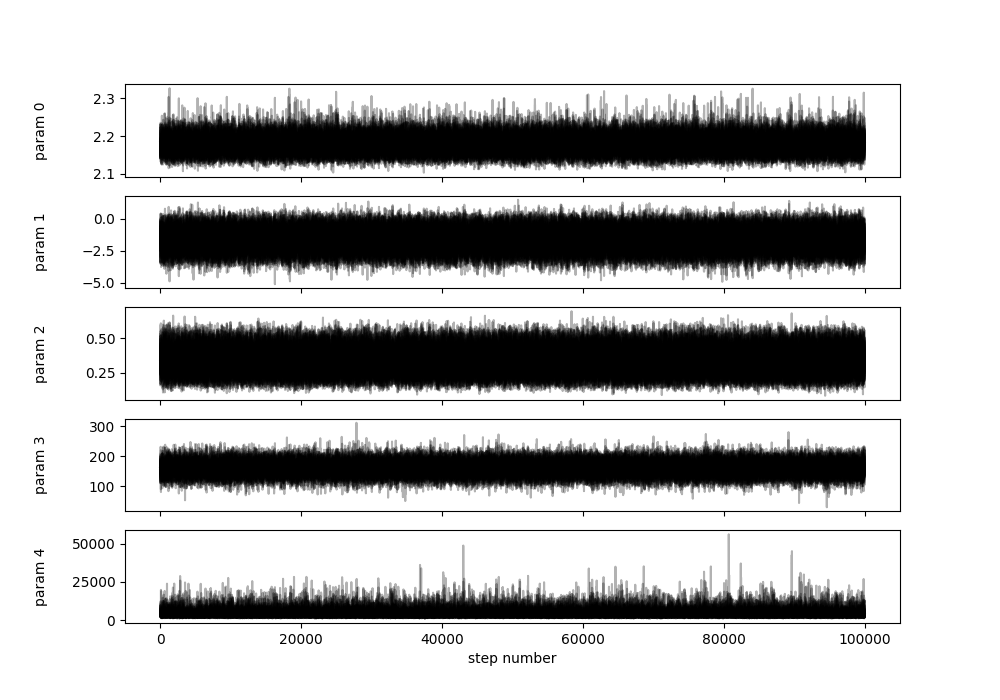
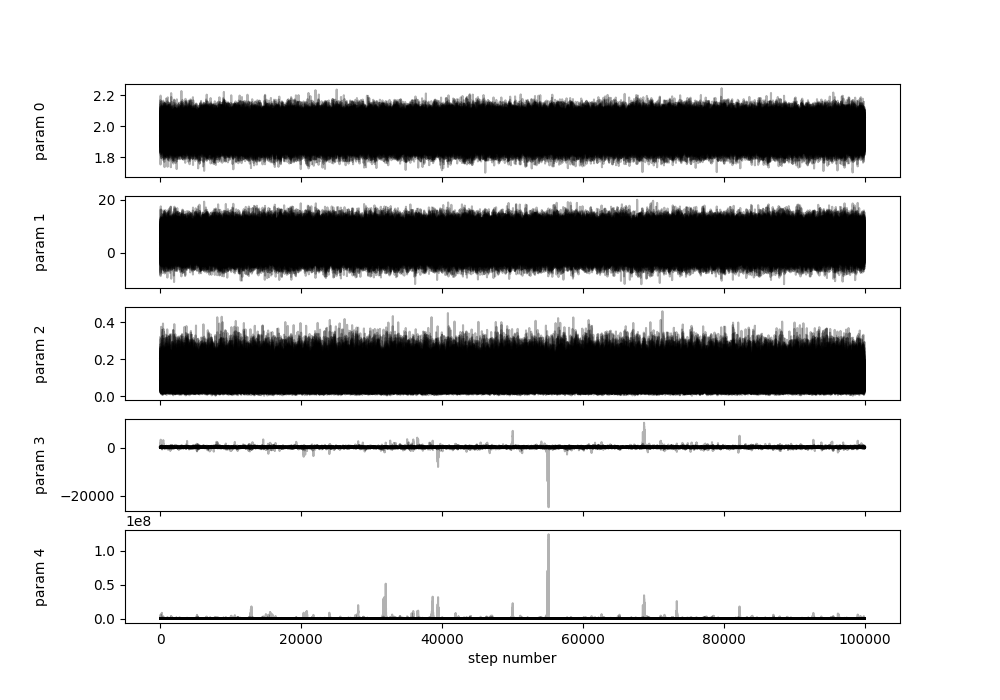
Decently working for linear plots with decent accuracy. However, need to see how it performs for other kinds of deviations. Still it feels like it is pretty good at picking out linear function, regardless of what the other function is.

diff --git a/summa.py b/summa.py
@@ -4,9 +4,13 @@ import corner
 import time
 import sys
 import emcee
+import datetime
+
+# Define the current time at the start of the program
+current_time = datetime.datetime.now().strftime("%Y%m%d_%H%M%S")
 
 flag = 0
-sig = 2
+sig = 20
 def function(x, params):
     return np.polyval(params, x)
 
@@ -34,9 +38,13 @@ def create_data(num_good_points=100, num_bad_points=10):
     plt.legend()
     plt.grid()
     # plt.show()
+    plt.savefig(f"summa_real_data_plot_{current_time}.png") 
     plt.close()
 
-    return np.sort(np.concatenate((x_good, x_bad))), np.concatenate((y_good, y_bad))
+    x_combined = np.concatenate((x_good, x_bad))
+    y_combined = np.concatenate((y_good, y_bad))
+    sorted_indices = np.argsort(x_combined)
+    return np.sort(x_combined), y_combined[sorted_indices]
 
 def logprior(params, NUM=2):
     func_params = params[:NUM]
@@ -44,7 +52,7 @@ def logprior(params, NUM=2):
 
     if Pb < 0 or Pb > 1:
         return -np.inf
-    if Vb < 0:
+    if Vb <= 0:
         return -np.inf
 
     return - np.log(1 + Pb) - np.log(1 + Vb)
@@ -54,8 +62,12 @@ def loglikelihood(params, x, y, NUM=2):
     Pb, Yb, Vb = params[NUM:]
 
 
-    logforeground_model = np.log((1 / np.sqrt(2 * np.pi * sig**2))) + (-0.5 * ((y - function(x, func_params)) / sig)**2)
-    logbackground_model = np.log((1 / np.sqrt(2 * np.pi * (Vb + sig**2)))) + (-0.5 * ((y - Yb)**2 / (Vb + sig**2)))
+    epsilon = 1e-10  # Small value to prevent division by zero
+    safe_sig2 = sig**2 + epsilon
+    safe_Vb = Vb + epsilon
+
+    logforeground_model = np.log((1 / np.sqrt(2 * np.pi * safe_sig2))) + (-0.5 * np.clip(((y - function(x, func_params)) / sig)**2, -1e10, 1e10))
+    logbackground_model = np.log((1 / np.sqrt(2 * np.pi * (safe_Vb + safe_sig2)))) + (-0.5 * np.clip(((y - Yb)**2 / (safe_Vb + safe_sig2)), -1e10, 1e10))
 
     a = np.log(1 - Pb) + logforeground_model
     b = np.log(Pb) + logbackground_model
@@ -209,12 +221,12 @@ def plot_corner(samples_2d, title):
         levels=(0.68, 0.95),  # Confidence levels for contours
         color="black",  # Color of the plots
     )
-    plt.savefig("corner_plot_1.png")  # Save the corner plot as a PNG file
+    plt.savefig(f"corner_plot_1_{current_time}.png")  # Save the corner plot as a PNG file with the current time
     plt.show()
 
     fig = plt.figure(figsize=(12, 8), dpi=100)
     corner.corner(samples_2d, fig=fig, labels=title, show_titles=True, quantiles=[0.16, 0.5, 0.84])
-    plt.savefig("corner_plot_2.png")  # Save the corner plot as a PNG file
+    plt.savefig(f"corner_plot_2_{current_time}.png")  # Save the corner plot as a PNG file with the current time
     plt.show()
 
 def mcmc_1_main(data, num_walkers=50, num_samples=10000, num_burnin=1000, num_thin=10, NUM=2):
@@ -225,7 +237,7 @@ def mcmc_1_main(data, num_walkers=50, num_samples=10000, num_burnin=1000, num_th
 
     # param_ranges = [(-5, 5), (-10, 10), (0, 1), (-20, 20), (10, 10)]
     # param_ranges = [(1.95, 2.05), (-0.1, 0.1), (0, 1), (-10, 10), (0, 5)]
-    param_ranges = [(1, 3), (-2, 2), (0, 1), (-10, 10), (0, 5)]
+    param_ranges = [(1, 3), (-2, 2), (0.1, 0.9), (-10, 10), (1, 5)]
 
     for i in range(num_walkers):
         initial_params = np.array([np.random.uniform(low, high) for low, high in param_ranges])
@@ -319,7 +331,7 @@ def mcmc_2_main(data, nwalkers=50, nprod=1000, nburn=1000, NUM=2):
     ndim = NUM + 3  # Number of parameters (2 for function params, 3 for Pb, Yb, Vb)
     nwalkers = nwalkers
 
-    param_ranges = [(1, 3), (-2, 2), (0, 1), (-10, 10), (0, 5)]
+    param_ranges = [(1, 3), (-2, 2), (0.1, 0.9), (-10, 10), (1, 5)]
 
     p0 = np.array([np.random.uniform(low, high, size=nwalkers) for low, high in param_ranges]).T
 
@@ -356,8 +368,8 @@ def mcmc_2_main(data, nwalkers=50, nprod=1000, nburn=1000, NUM=2):
 
     fig = plt.figure(figsize=(12, 8), dpi=100)
     corner.corner(samples, labels=["m", "c", "Pb", "Yb", "Vb"], fig=fig, show_titles=True, quantiles=[0.16, 0.5, 0.84])
+    plt.savefig(f"summa_corner_plot_3_{current_time}.png")  # Save the corner plot as a PNG file with the current time
     plt.show()
-    plt.savefig("summa_corner_plot_3.png")  # Save the corner plot as a PNG file
     plt.close()
 
 
@@ -370,8 +382,21 @@ def mcmc_2_main(data, nwalkers=50, nprod=1000, nburn=1000, NUM=2):
         ax.set_ylabel(f"param {i}")
         ax.yaxis.set_label_coords(-0.1, 0.5)
     plt.xlabel("step number")
-    plt.savefig("summa_chain_plot_3.png")  # Save the chain plot as a PNG file
+    plt.savefig(f"summa_chain_plot_3_{current_time}.png")  # Save the chain plot as a PNG file with the current time
     plt.close()
+
+    # Print acceptance rate
+    acceptance_rate = np.mean(sampler.acceptance_fraction)
+    print(f"Acceptance rate: {acceptance_rate:.4f}")
+
+    # Compute and print autocorrelation time
+    try:
+        tau = sampler.get_autocorr_time()
+        print("Autocorrelation time for each parameter:")
+        for i, t in enumerate(tau):
+            print(f"  Parameter {i}: {t:.2f}")
+    except emcee.autocorr.AutocorrError:
+        print("Warning: Autocorrelation time could not be reliably estimated.")
 
     return [stats["median"] for param, stats in results.items()]
 
@@ -430,11 +455,16 @@ def find_bad_data(data, param, NUM=2):
 
 # data = create_data(15, 3)
 # data = create_data(20, 5)
-# data = create_data(100, 1)
-data = create_data()
+data = create_data(100, 10)
+# data = create_data(10, 10)
+# print("data points are")
+# for i in range(len(data[0])):
+#     print(f"({data[0][i]}, {data[1][i]})")
+
+# sys.exit(0)
 
 # mcmc_main(data, num_walkers=3, num_samples=10, num_burnin=2, num_thin=2, NUM=2)
-n_walkers = 20
+n_walkers = 50
 n_prod = 100000
 n_burn = 1000
 n_thin = 50
@@ -448,6 +478,8 @@ print(f"\n\nres_1 = {res_1}\nres_2 = {res_2}\n\n")
 x_arr = np.linspace(0, 100, 100)
 y_arr = function(x_arr, res_1[:2])
 
+y_bad_func_1 = function(x_arr, res_2[3:5])
+
 prob_bad_points_1 = find_bad_data(data, res_1, NUM=2)
 
 print("prob_bad_points = ", prob_bad_points_1)
@@ -458,35 +490,80 @@ print("mask = ", mask)
 # print("sigys = ", sigys)
 # print("sigy = ", sigy)
 
-plt.scatter(data[0][~mask], data[1][~mask], c='red', label='Data Points', edgecolor='black', s=14)
-plt.scatter(data[0][mask], data[1][mask], facecolors='none', edgecolors='red', s=8, label='Bad Data Points', alpha=0.5)
-plt.errorbar(data[0], data[1], yerr=sig, fmt='o', alpha=0.6, capsize=0.4)
+# plt.errorbar(A, B, yerr=sig, fmt='o', ms=10, capsize=4, zorder=1)
+# plt.scatter(A[mask], B[mask], facecolors='red', edgecolors='red', s=50, label='Bad Data Points', zorder=2)
+
+plt.errorbar(data[0], data[1], yerr=sig, fmt='o', ms=10, capsize=4, zorder=1)
+plt.scatter(data[0][mask], data[1][mask], c='red', label='Bad Data Points', alpha=0.7, edgecolor='black', s=50, zorder=2)
+
+# plt.scatter(data[0][~mask], data[1][~mask], c='red', label='Data Points', edgecolor='black', s=14)
+# plt.scatter(data[0][mask], data[1][mask], facecolors='none', edgecolors='red', s=8, label='Bad Data Points', alpha=0.5)
+# plt.errorbar(data[0], data[1], yerr=sig, fmt='o', alpha=0.6, capsize=0.4)
 plt.xlabel('x')
 plt.ylabel('y')
 plt.title('Fitting for x with Bad data in dataset')
 plt.plot(x_arr, y_arr, color='blue', label='Good Function')
+plt.plot(x_arr, y_bad_func_1, color='red', label='Bad Function')
+plt.xlim(-5, 105)
+plt.ylim(-10, 410)
 plt.legend()
 plt.grid()
-plt.savefig("summa_plot_1.png")  # Save the plot as a PNG file
+plt.savefig(f"summa_plot_1_{current_time}.png")  # Save the plot as a PNG file with the current time
 plt.show()
 plt.close()
 
 
 prob_bad_points_2 = find_bad_data(data, res_2, NUM=2)
 
+y_arr_2 = function(x_arr, res_2[:2])
+y_bad_func_2 = function(x_arr, res_2[3:5])
+
 print("prob_bad_points = ", prob_bad_points_2)
 mask = prob_bad_points_2 > 0.5
 print("mask = ", mask)
 
-plt.scatter(data[0][~mask], data[1][~mask], c='red', label='Data Points', edgecolor='black', s=14)
-plt.scatter(data[0][mask], data[1][mask], facecolors='none', edgecolors='red', s=8, label='Bad Data Points', alpha=0.5)
-plt.errorbar(data[0], data[1], yerr=sig, fmt='o', alpha=0.6, capsize=0.6)
+
+plt.errorbar(data[0], data[1], yerr=sig, fmt='o', ms=10, capsize=4, zorder=1)
+plt.scatter(data[0][mask], data[1][mask], c='red', label='Bad Data Points', alpha=0.7, edgecolor='black', s=50, zorder=2)
+
+
+# plt.scatter(data[0][~mask], data[1][~mask], c='red', label='Data Points', edgecolor='black', s=14)
+# plt.scatter(data[0][mask], data[1][mask], facecolors='none', edgecolors='red', s=8, label='Bad Data Points', alpha=0.5)
+# plt.errorbar(data[0], data[1], yerr=sig, fmt='o', alpha=0.6, capsize=0.6)
 plt.xlabel('x')
 plt.ylabel('y')
 plt.title('Fitting for x with Bad data in dataset')
 plt.plot(x_arr, y_arr, color='blue', label='Good Function')
+plt.plot(x_arr, y_bad_func_2, color='red', label='Bad Function')
+plt.xlim(-5, 105)
+plt.ylim(-10, 410)
 plt.legend()
 plt.grid()
-plt.savefig("summa_plot_2.png")  # Save the plot as a PNG file
+plt.savefig(f"summa_plot_2_{current_time}.png")  # Save the plot as a PNG file with the current time
 plt.show()
 plt.close()
+
+
+# import matplotlib.pyplot as plt
+# import numpy as np
+
+# n = 20
+# sig_max = 10
+
+# A = np.sort(np.random.uniform(0, 100, n))
+# sig = np.random.uniform(0, sig_max, n)
+# B = A + np.random.normal(0, sig, n)
+
+# x = np.linspace(0, 100, 100)
+
+
+# mask = sig > sig_max / 2
+# print(mask)
+# print('percent of bad points = ', np.sum(mask) / n * 100,'%')
+# # plt.scatter(A[~mask], B[~mask], c='red', label='Data Points', edgecolor='black', s=50)
+# plt.errorbar(A, B, yerr=sig, fmt='o', ms=10, capsize=4, zorder=1)
+# plt.scatter(A[mask], B[mask], facecolors='red', edgecolors='red', s=50, label='Bad Data Points', zorder=2)
+
+# plt.plot(x, x, color='blue', label='Good Function')
+# plt.grid()
+# plt.show()
